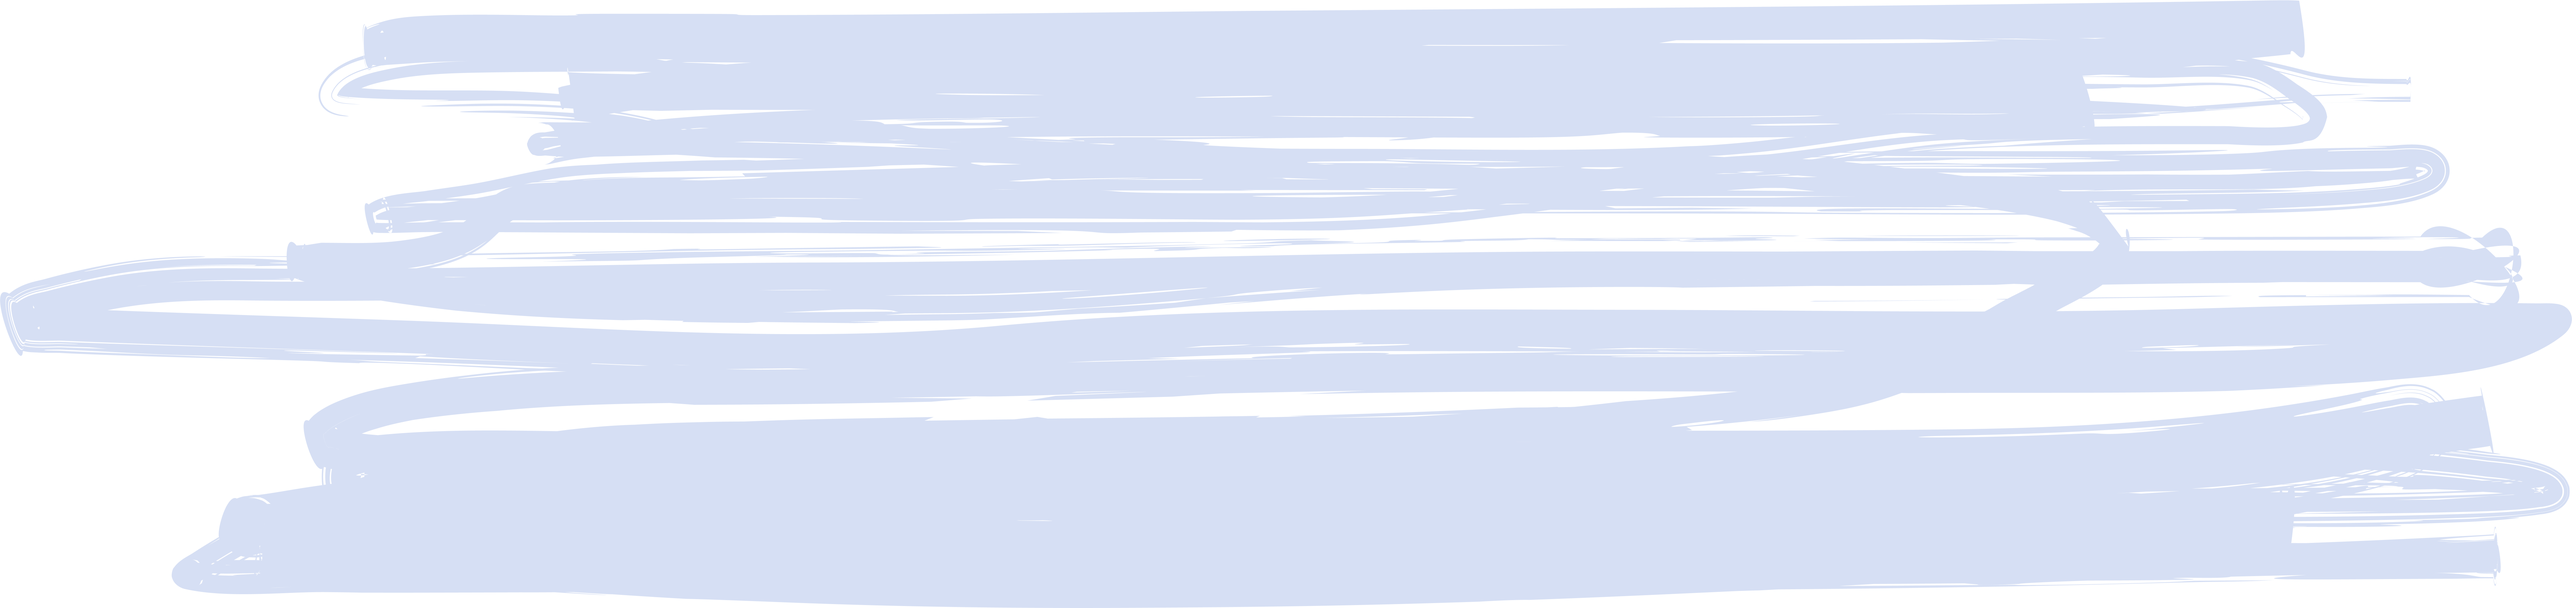
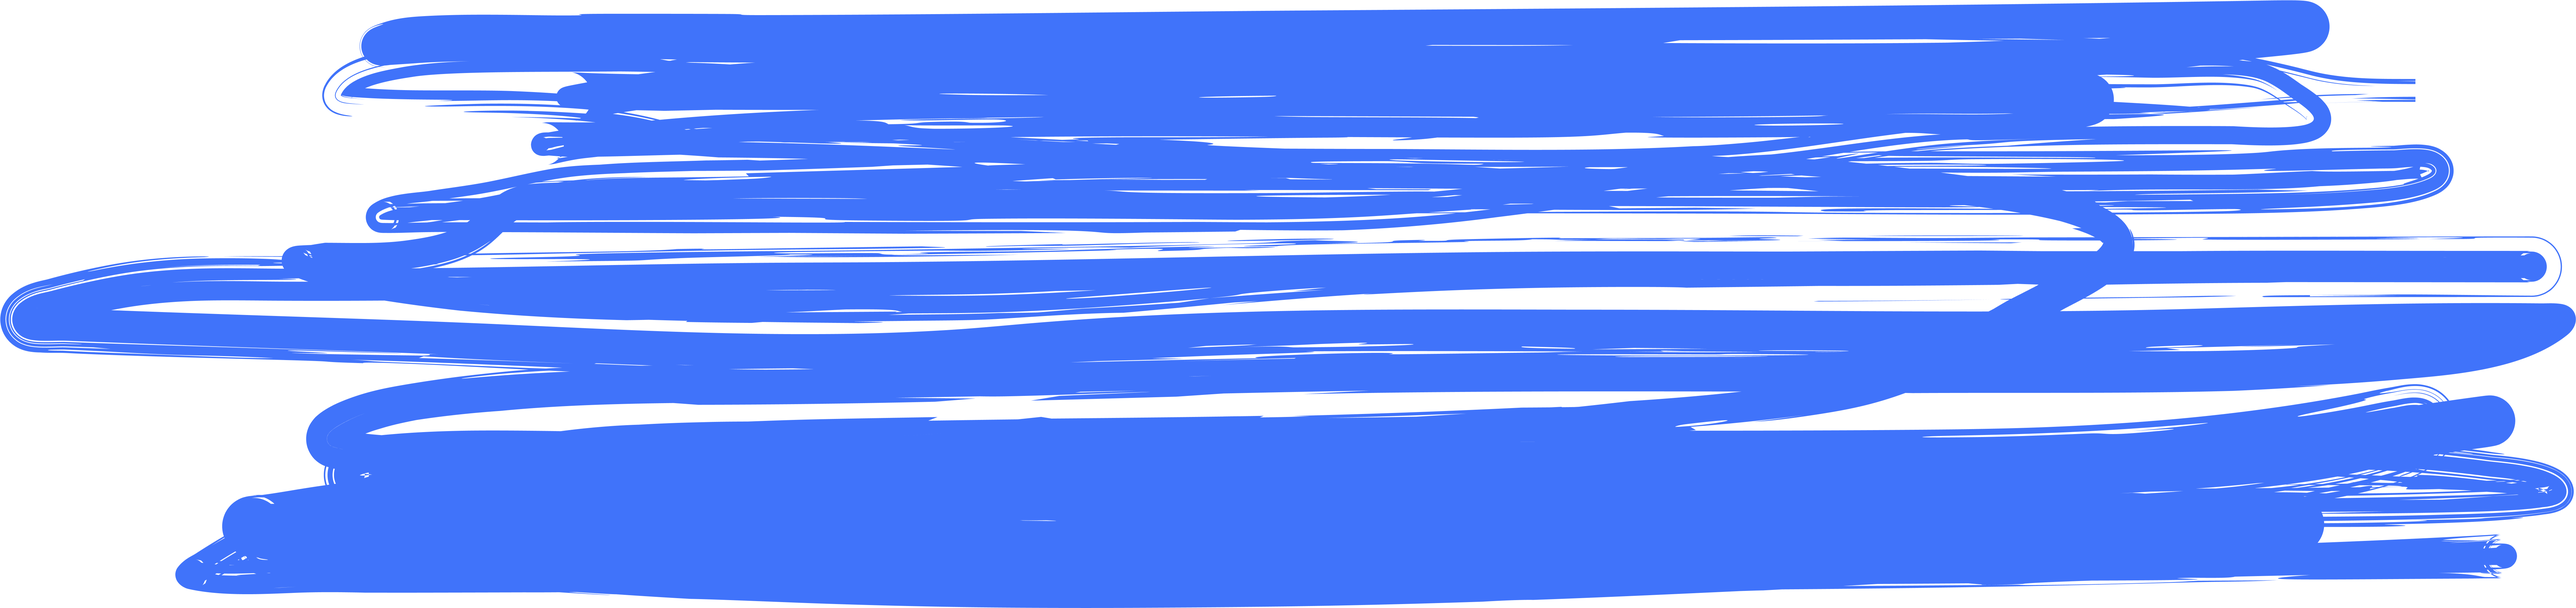
black back

diff --git a/styles.css b/styles.css
@@ -3,7 +3,8 @@ body {
     font-family: sans-serif;
     font-size: 20px;
     line-height: 1.6;
-    color: #333;
+    color: #fffcfc;
+    background-color: black;
   }
   
   .parallax {
@@ -33,13 +34,15 @@ body {
   }
 
   .qu {
-    position: relative; }
+    position: relative;
+  color: #ffffff; }
 
  .qu img {
   height: 185px;
   margin-top: -25px;
   margin-left: -20px;
 position: absolute;
+opacity: 50%;
 }
 
   
@@ -64,6 +67,7 @@ position: absolute;
     padding: 60px 20px;
     max-width: 800px;
     margin: 0 auto;
+    background-color: black;
   }
   
   footer {
@@ -127,7 +131,8 @@ position: absolute;
   }
 
    p {
-    text-indent: 20px; }
+    text-indent: 20px; 
+  color: #f9f9f9;}
    
     .letter-r {
 	font-size: 100pt;
@@ -135,7 +140,7 @@ position: absolute;
 	float: left;
 	margin: -40px 30px 50px 0;
 	height: 107px;
-  color: rgb(40, 37, 133)
+  color: rgb(19, 12, 230)
 }
 
 
